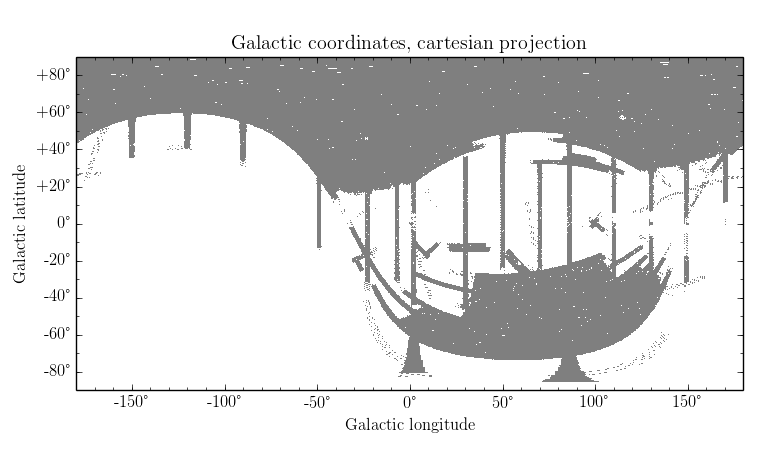
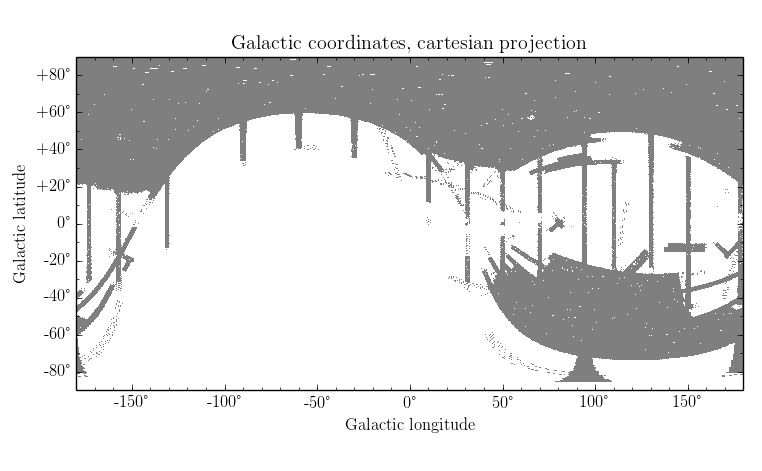
Fix orientation in Galactic Longitude

Changed region(s): [[0.0906, 0.2378, 0.9961, 0.8323], [0.0906, 0.7431, 0.1207, 0.8025]]

diff --git a/sdss_coverage_moc.py b/sdss_coverage_moc.py
@@ -42,7 +42,7 @@ for cell in allcells:
 xsize = 6400
 ysize = 3200
 
-mocmap = healpy.visufunc.cartview(moc, sub=111, nest=True, notext=True, coord=['C', 'G'], rot=(180,0,0), xsize=xsize, ysize=ysize, return_projected_map=True)
+mocmap = healpy.visufunc.cartview(moc, sub=111, nest=True, notext=True, coord=['C', 'G'], rot=(0,0,0), xsize=xsize, ysize=ysize, return_projected_map=True)
 
 header = fits.Header()
 header['CRPIX1'] = xsize/2.0
@@ -56,5 +56,5 @@ header['CDELT2'] = 180.0/ysize
 header['EQUINOX'] = 2000.0
 header['OBJECT'] = 'SDSS DR9 coverage'
 
-hdu = fits.PrimaryHDU(np.array((mocmap)), header=header)
+hdu = fits.PrimaryHDU(np.fliplr(np.array((mocmap))), header=header)
 hdu.writeto('sdss_dr9_coverage.fits', clobber=True)
